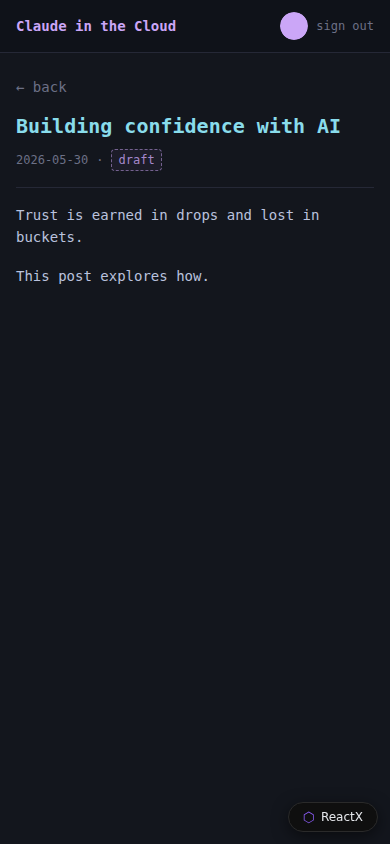
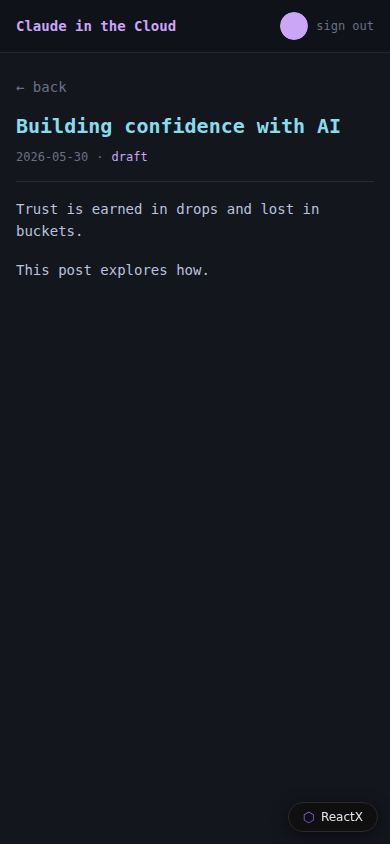
Address PR feedback: flush editor saves on close, flatten draft indicator
- Flush debounced edits before leaving the editor so Esc/back/close never
  drops changes made within the debounce window
- Replace the boxed draft badge with an inline colored label in lists and post
  meta so its presence no longer changes row height
- Add a mixed published/draft list story to guard against layout jump

diff --git a/src/common/hooks/useBlogEditor.ts b/src/common/hooks/useBlogEditor.ts
@@ -12,6 +12,34 @@ export function useBlogEditor() {
   const saveTimer = useRef<ReturnType<typeof setTimeout> | null>(null);
   const pendingFields = useRef<Partial<Pick<DbPost, 'title' | 'body' | 'published'>>>({});
 
+  // Persist any debounced-but-not-yet-saved edits immediately. Must run before
+  // closeEditor() nulls draftPostId — otherwise savePost no-ops and edits made
+  // within the last DEBOUNCE_MS window are lost.
+  function flushPendingSave() {
+    if (saveTimer.current) {
+      clearTimeout(saveTimer.current);
+      saveTimer.current = null;
+    }
+    if (Object.keys(pendingFields.current).length > 0) {
+      app.savePost(pendingFields.current);
+      pendingFields.current = {};
+    }
+  }
+
+  // The single exit point for the editor: flush first so leaving never drops
+  // recent edits, then close.
+  function closeEditor() {
+    flushPendingSave();
+    app.closeEditor();
+  }
+
+  // Keep the keydown handler pointing at the latest close logic without
+  // re-subscribing the listener on every render.
+  const closeRef = useRef(closeEditor);
+  useEffect(() => {
+    closeRef.current = closeEditor;
+  });
+
   const initialBody = useRef(post?.body ?? '');
   useEffect(() => {
     if (bodyRef.current) {
@@ -27,11 +55,11 @@ export function useBlogEditor() {
   // Esc leaves the editor — the terminal-native way out, no mouse required.
   useEffect(() => {
     function onKeyDown(e: KeyboardEvent) {
-      if (e.key === 'Escape') app.closeEditor();
+      if (e.key === 'Escape') closeRef.current();
     }
     window.addEventListener('keydown', onKeyDown);
     return () => window.removeEventListener('keydown', onKeyDown);
-  }, [app]);
+  }, []);
 
   function scheduleSave(fields: Partial<Pick<DbPost, 'title' | 'body' | 'published'>>) {
     pendingFields.current = { ...pendingFields.current, ...fields };
@@ -58,5 +86,5 @@ export function useBlogEditor() {
     scheduleSave({ published: next });
   }
 
-  return { app, post, bodyRef, titleRef, handleTitleChange, handleBodyInput, handlePublishToggle };
+  return { app, post, bodyRef, titleRef, closeEditor, handleTitleChange, handleBodyInput, handlePublishToggle };
 }

diff --git a/src/mobile/components/BlogEditor.tsx b/src/mobile/components/BlogEditor.tsx
@@ -1,7 +1,7 @@
 import { useBlogEditor } from "../../common/hooks/useBlogEditor";
 
 export function BlogEditor() {
-  const { app, post, bodyRef, titleRef, handleTitleChange, handleBodyInput, handlePublishToggle } = useBlogEditor();
+  const { app, post, bodyRef, titleRef, closeEditor, handleTitleChange, handleBodyInput, handlePublishToggle } = useBlogEditor();
 
   if (!post) return null;
 
@@ -9,7 +9,7 @@ export function BlogEditor() {
     <div className="px-4 py-6 space-y-4 font-mono text-sm">
       <div className="flex items-center justify-between">
         <button
-          onClick={() => app.closeEditor()}
+          onClick={closeEditor}
           className="text-sm text-muted font-mono active:text-text"
         >
           ← back

diff --git a/src/desktop/components/BlogEditor.tsx b/src/desktop/components/BlogEditor.tsx
@@ -1,7 +1,7 @@
 import { useBlogEditor } from "../../common/hooks/useBlogEditor";
 
 export function BlogEditor() {
-  const { app, post, bodyRef, titleRef, handleTitleChange, handleBodyInput, handlePublishToggle } = useBlogEditor();
+  const { app, post, bodyRef, titleRef, closeEditor, handleTitleChange, handleBodyInput, handlePublishToggle } = useBlogEditor();
 
   if (!post) return null;
 
@@ -53,7 +53,7 @@ export function BlogEditor() {
       />
       <div className="border-t border-border pt-3 flex items-center text-xs">
         <button
-          onClick={() => app.closeEditor()}
+          onClick={closeEditor}
           className="text-muted hover:text-text transition-colors cursor-pointer"
         >
           esc

diff --git a/src/desktop/components/App.stories.tsx b/src/desktop/components/App.stories.tsx
@@ -35,6 +35,26 @@ export function list() {
   };
 }
 
+// Mixed published/draft rows — the draft label must not make its row taller
+// than a plain published row.
+export function listWithPosts() {
+  const appState = createAppState({
+    user: author,
+    posts: [
+      { ...post1, id: "p2", slug: "second-post", title: "A published post", published: true },
+      { ...post1, published: false },
+    ],
+  });
+  return {
+    element: (
+      <AppContext.Provider value={appState}>
+        <App />
+      </AppContext.Provider>
+    ),
+    appState,
+  };
+}
+
 export function post() {
   // Seed the route in the constructor — reactx forbids mutating the reactive
   // proxy directly from outside a class method.

diff --git a/src/mobile/components/BlogList.tsx b/src/mobile/components/BlogList.tsx
@@ -39,9 +39,7 @@ export function BlogList() {
             <div className="flex items-start justify-between gap-2 mb-2">
               <span className="font-mono font-semibold text-teal leading-snug">{post.title}</span>
               {post.draft && (
-                <span className="text-xs px-2 py-0.5 rounded border border-dashed border-mauve/50 text-mauve/80 bg-mauve/5 shrink-0 font-mono">
-                  draft
-                </span>
+                <span className="text-xs text-mauve shrink-0 font-mono">draft</span>
               )}
             </div>
             <div className="flex items-center gap-2 mb-2">

diff --git a/src/desktop/components/BlogList.tsx b/src/desktop/components/BlogList.tsx
@@ -51,9 +51,7 @@ export function BlogList() {
                 {post.title}
               </span>
               {post.draft && (
-                <span className="ml-auto text-xs px-2 py-0.5 rounded border border-dashed border-mauve/50 text-mauve/80 bg-mauve/5 shrink-0 font-mono">
-                  draft
-                </span>
+                <span className="ml-auto text-xs text-mauve shrink-0 font-mono">draft</span>
               )}
             </div>
             <div className="flex items-center gap-2 ml-7">

diff --git a/src/desktop/components/BlogPost.tsx b/src/desktop/components/BlogPost.tsx
@@ -61,9 +61,7 @@ export function BlogPost() {
           {post.draft && (
             <>
               <span>·</span>
-              <span className="px-1.5 py-0.5 rounded border border-dashed border-mauve/50 text-mauve/80 bg-mauve/5 font-mono">
-                draft
-              </span>
+              <span className="text-mauve">draft</span>
             </>
           )}
           {post.tags.length > 0 && (

diff --git a/src/mobile/components/BlogPost.tsx b/src/mobile/components/BlogPost.tsx
@@ -40,9 +40,7 @@ export function BlogPost() {
           {post.draft && (
             <>
               <span>·</span>
-              <span className="px-1.5 py-0.5 rounded border border-dashed border-mauve/50 text-mauve/80 bg-mauve/5">
-                draft
-              </span>
+              <span className="text-mauve">draft</span>
             </>
           )}
         </div>
